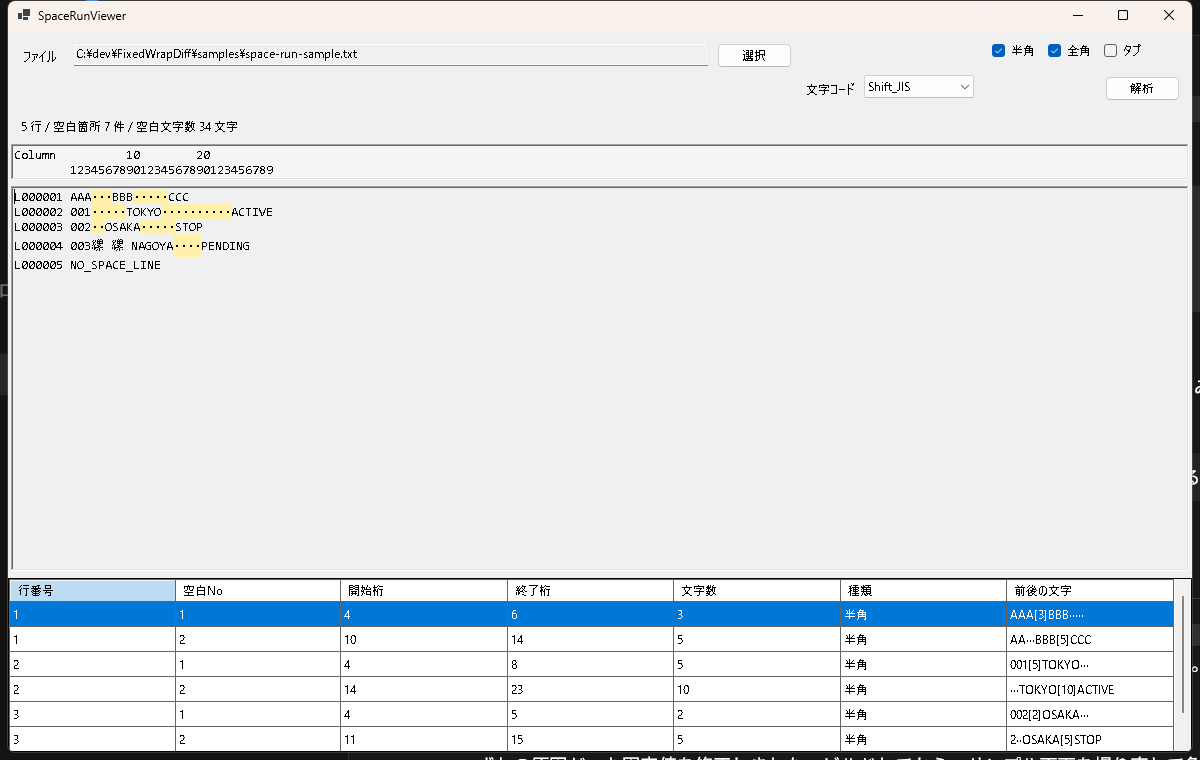
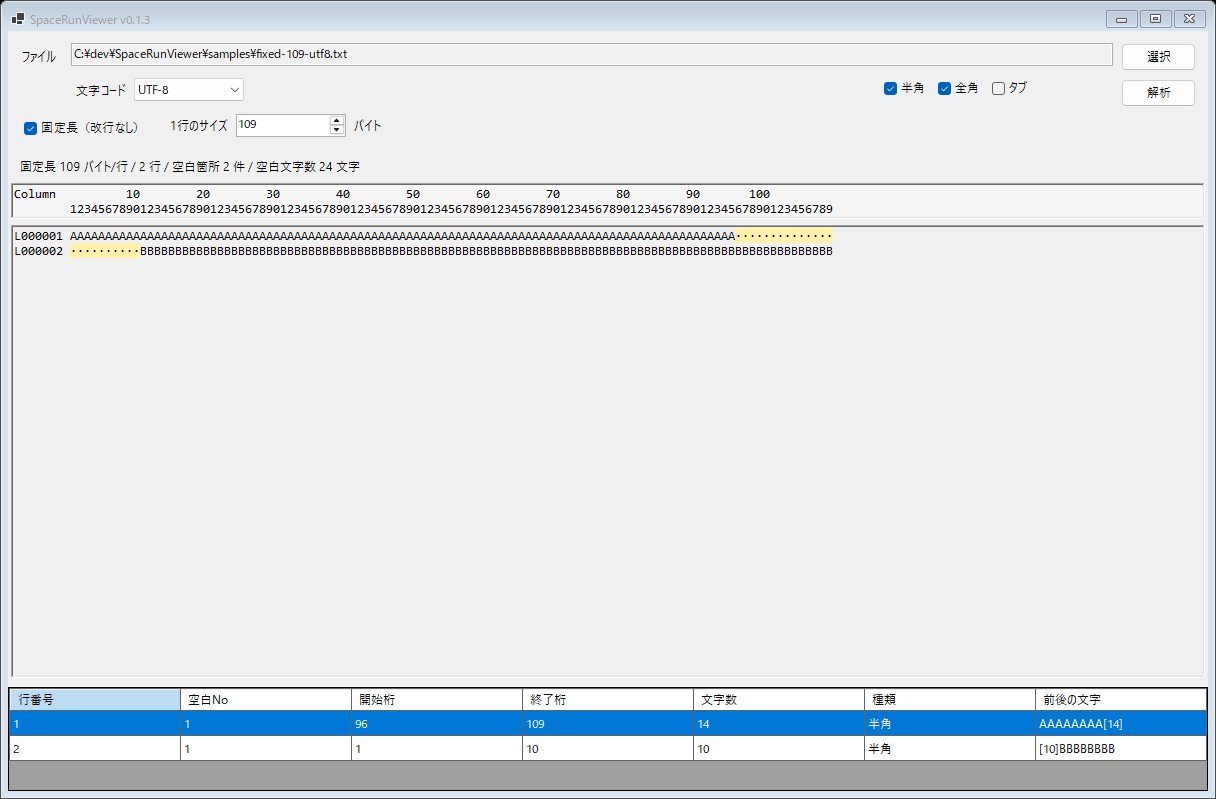
Add byte-sized fixed-length record support

Changed region(s): [[0.0, 0.0, 1.0, 1.0]]

diff --git a/tests/SpaceRunViewer.Tests/Program.cs b/tests/SpaceRunViewer.Tests/Program.cs
@@ -1,0 +1,183 @@
+using System.Reflection;
+using System.Text;
+using SpaceRunViewer;
+
+internal static class Program
+{
+    private static readonly Encoding Utf8 = new UTF8Encoding(false, true);
+    private static string testDirectory = string.Empty;
+
+    [STAThread]
+    private static int Main(string[] args)
+    {
+        Encoding.RegisterProvider(CodePagesEncodingProvider.Instance);
+        if (args.Length == 3 && args[0] == "--preview")
+        {
+            RenderPreview(args[1], args[2]);
+            return 0;
+        }
+        testDirectory = Path.Combine(Path.GetTempPath(), "SpaceRunViewer-tests-" + Guid.NewGuid().ToString("N"));
+        Directory.CreateDirectory(testDirectory);
+        var tests = new (string Name, Action Run)[]
+        {
+            ("通常モードはCRLF・LFと空行を保持", NormalLines),
+            ("109バイト2件を分離し末尾空白を保持", Fixed109),
+            ("空ファイルは0件", EmptyFile),
+            ("末尾の不足データを保持", PartialRecord),
+            ("UTF-8のBOMはレコード長に含めない", Utf8Bom),
+            ("UTF-8の日本語をバイト単位で分割", Utf8Multibyte),
+            ("Shift_JISの日本語をバイト単位で分割", ShiftJisMultibyte),
+            ("複数バイト文字の途中の境界を拒否", InvalidBoundary),
+            ("固定長モードの改行を拒否", FixedNewlines),
+            ("0・負のレコード長を拒否", InvalidSize),
+            ("画面の固定長指定・行分離・空白選択", FormIntegration),
+        };
+        var failures = 0;
+        try
+        {
+            foreach (var test in tests)
+            {
+                try { test.Run(); Console.WriteLine("PASS " + test.Name); }
+                catch (Exception ex) { failures++; Console.Error.WriteLine("FAIL " + test.Name + ": " + ex); }
+            }
+        }
+        finally
+        {
+            var expectedPrefix = Path.Combine(Path.GetFullPath(Path.GetTempPath()), "SpaceRunViewer-tests-");
+            if (!Path.GetFullPath(testDirectory).StartsWith(expectedPrefix, StringComparison.OrdinalIgnoreCase))
+                throw new InvalidOperationException("テスト用ディレクトリの削除対象が範囲外です。");
+            Directory.Delete(testDirectory, true);
+        }
+        Console.WriteLine($"{tests.Length - failures}/{tests.Length} passed");
+        return failures == 0 ? 0 : 1;
+    }
+
+    private static string Write(byte[] bytes)
+    {
+        var path = Path.Combine(testDirectory, Guid.NewGuid().ToString("N") + ".txt");
+        File.WriteAllBytes(path, bytes);
+        return path;
+    }
+
+    private static string Write(string text) => Write(Utf8.GetBytes(text));
+    private static void Equal<T>(T expected, T actual)
+    {
+        if (!EqualityComparer<T>.Default.Equals(expected, actual))
+            throw new InvalidOperationException($"Expected {expected}; actual {actual}");
+    }
+    private static void Lines(string[] expected, TextFileReadResult actual)
+    {
+        if (!expected.SequenceEqual(actual.Lines)) throw new InvalidOperationException("レコード内容が一致しません。");
+    }
+    private static void Throws<T>(Action action) where T : Exception
+    {
+        try { action(); }
+        catch (T) { return; }
+        throw new InvalidOperationException(typeof(T).Name + " was not thrown.");
+    }
+
+    private static void NormalLines() => Lines(["A  B", "", "C "], TextFileReader.Read(Write("A  B\r\n\r\nC \n"), Utf8));
+    private static string[] FixedRecords() => [new string('A', 95) + new string(' ', 14), new string(' ', 10) + new string('B', 99)];
+
+    private static void Fixed109()
+    {
+        var records = FixedRecords();
+        var result = TextFileReader.Read(Write(string.Concat(records)), Utf8, 109);
+        Lines(records, result);
+        Equal(0, result.PartialRecordBytes);
+    }
+
+    private static void EmptyFile() => Lines([], TextFileReader.Read(Write(""), Utf8, 109));
+    private static void PartialRecord()
+    {
+        var result = TextFileReader.Read(Write("AB CD"), Utf8, 3);
+        Lines(["AB ", "CD"], result);
+        Equal(2, result.PartialRecordBytes);
+    }
+
+    private static void Utf8Bom()
+    {
+        var bytes = new byte[] { 0xEF, 0xBB, 0xBF }.Concat(Utf8.GetBytes("A B ")).ToArray();
+        Lines(["A ", "B "], TextFileReader.Read(Write(bytes), Utf8, 2));
+        Lines([], TextFileReader.Read(Write([0xEF, 0xBB, 0xBF]), Utf8, 2));
+    }
+
+    private static void Utf8Multibyte() => Lines(["あ  A", "B  い"], TextFileReader.Read(Write("あ  AB  い"), Utf8, 6));
+    private static void ShiftJisMultibyte()
+    {
+        var encoding = Encoding.GetEncoding("shift_jis");
+        Lines(["あ  ", "B い"], TextFileReader.Read(Write(encoding.GetBytes("あ  B い")), encoding, 4));
+    }
+    private static void InvalidBoundary() => Throws<InvalidDataException>(() => TextFileReader.Read(Write("あ  AB  い"), Utf8, 5));
+    private static void FixedNewlines() => Throws<InvalidDataException>(() => TextFileReader.Read(Write("A\r\nB"), Utf8, 4));
+    private static void InvalidSize()
+    {
+        var path = Write("A");
+        Throws<ArgumentOutOfRangeException>(() => TextFileReader.Read(path, Utf8, 0));
+        Throws<ArgumentOutOfRangeException>(() => TextFileReader.Read(path, Utf8, -1));
+    }
+
+    private static T Field<T>(MainForm form, string name) => (T)typeof(MainForm).GetField(name, BindingFlags.Instance | BindingFlags.NonPublic)!.GetValue(form)!;
+    private static void Analyze(MainForm form) => typeof(MainForm).GetMethod("AnalyzeFile", BindingFlags.Instance | BindingFlags.NonPublic)!.Invoke(form, null);
+
+    private static void FormIntegration()
+    {
+        using var form = new MainForm();
+        form.CreateControl();
+        var mode = Field<CheckBox>(form, "fixedLengthCheckBox");
+        var size = Field<NumericUpDown>(form, "recordByteLengthInput");
+        Equal(false, mode.Checked);
+        Equal(false, size.Enabled);
+        Equal(109m, size.Value);
+        Field<ComboBox>(form, "encodingComboBox").SelectedItem = "UTF-8";
+        Field<TextBox>(form, "filePathTextBox").Text = Write(string.Concat(FixedRecords()));
+        mode.Checked = true;
+        Equal(true, size.Enabled);
+        Analyze(form);
+        var grid = Field<DataGridView>(form, "resultGrid");
+        var body = Field<SyncRichTextBox>(form, "textView");
+        Equal(2, grid.Rows.Count);
+        Equal(1, (int)grid.Rows[0].Cells["LineNumber"].Value!);
+        Equal(96, (int)grid.Rows[0].Cells["StartColumn"].Value!);
+        Equal(14, (int)grid.Rows[0].Cells["Length"].Value!);
+        Equal(2, (int)grid.Rows[1].Cells["LineNumber"].Value!);
+        Equal(1, (int)grid.Rows[1].Cells["StartColumn"].Value!);
+        Equal(10, (int)grid.Rows[1].Cells["Length"].Value!);
+        if (!body.Text.Contains("L000002 ")) throw new InvalidOperationException("2件目の行がありません。");
+        grid.CurrentCell = grid.Rows[1].Cells[0];
+        Equal(1, grid.CurrentRow!.Index);
+        typeof(MainForm).GetMethod("HighlightSelectedRun", BindingFlags.Instance | BindingFlags.NonPublic)!.Invoke(form, null);
+        var run = (SpaceRun)grid.Rows[1].Tag!;
+        typeof(MainForm).GetMethod("SelectRunText", BindingFlags.Instance | BindingFlags.NonPublic)!.Invoke(form, [run]);
+        Equal(new string('·', 10), body.SelectedText);
+        Equal(Color.FromArgb(255, 197, 120).ToArgb(), body.SelectionBackColor.ToArgb());
+        mode.Checked = false;
+        Analyze(form);
+        Equal(1, grid.Rows.Count);
+        Equal(24, (int)grid.Rows[0].Cells["Length"].Value!);
+        mode.Checked = true;
+        size.Value = 3;
+        Field<TextBox>(form, "filePathTextBox").Text = Write("AB CD");
+        Analyze(form);
+        if (!Field<Label>(form, "summaryLabel").Text.Contains("末尾レコード 2 バイト")) throw new InvalidOperationException("不足サイズの表示がありません。");
+    }
+
+    private static void RenderPreview(string input, string output)
+    {
+        Application.EnableVisualStyles();
+        using var form = new MainForm();
+        form.StartPosition = FormStartPosition.Manual;
+        form.Location = new Point(-30000, -30000);
+        form.ShowInTaskbar = false;
+        form.Show();
+        Field<TextBox>(form, "filePathTextBox").Text = input;
+        Field<ComboBox>(form, "encodingComboBox").SelectedItem = "UTF-8";
+        Field<CheckBox>(form, "fixedLengthCheckBox").Checked = true;
+        Analyze(form);
+        Application.DoEvents();
+        using var image = new Bitmap(form.Width, form.Height);
+        form.DrawToBitmap(image, new Rectangle(Point.Empty, image.Size));
+        image.Save(output, System.Drawing.Imaging.ImageFormat.Png);
+        form.Close();
+    }
+}

diff --git a/MainForm.cs b/MainForm.cs
@@ -4,7 +4,7 @@ namespace SpaceRunViewer;
 
 public sealed class MainForm : Form
 {
-    private const string AppVersion = "0.1.2";
+    private const string AppVersion = "0.1.3";
     private const int LinePrefixLength = 8;
     private const int PaneMinimumHeight = 40;
     private const int InitialResultGridHeight = 104;
@@ -14,6 +14,8 @@ public sealed class MainForm : Form
     private readonly CheckBox halfSpaceCheckBox = new();
     private readonly CheckBox fullSpaceCheckBox = new();
     private readonly CheckBox tabCheckBox = new();
+    private readonly CheckBox fixedLengthCheckBox = new();
+    private readonly NumericUpDown recordByteLengthInput = new();
     private readonly Label summaryLabel = new();
     private readonly SyncRichTextBox rulerView = new();
     private readonly SyncRichTextBox textView = new();
@@ -50,7 +52,7 @@ public sealed class MainForm : Form
             AutoSize = true,
             Padding = new Padding(8),
             ColumnCount = 7,
-            RowCount = 2,
+            RowCount = 3,
         };
         topPanel.ColumnStyles.Add(new ColumnStyle(SizeType.AutoSize));
         topPanel.ColumnStyles.Add(new ColumnStyle(SizeType.Percent, 100));
@@ -93,6 +95,36 @@ public sealed class MainForm : Form
         topPanel.Controls.Add(fullSpaceCheckBox, 3, 1);
         topPanel.Controls.Add(tabCheckBox, 4, 1);
         topPanel.Controls.Add(analyzeButton, 6, 1);
+
+        fixedLengthCheckBox.Text = "固定長（改行なし）";
+        fixedLengthCheckBox.AutoSize = true;
+        fixedLengthCheckBox.Margin = new Padding(4, 7, 12, 4);
+        recordByteLengthInput.Minimum = 1;
+        recordByteLengthInput.Maximum = 1_000_000;
+        recordByteLengthInput.Value = 109;
+        recordByteLengthInput.Width = 110;
+        recordByteLengthInput.ThousandsSeparator = true;
+        var recordSizeOptions = new FlowLayoutPanel
+        {
+            AutoSize = true,
+            WrapContents = false,
+            Margin = Padding.Empty,
+            Enabled = false,
+        };
+        recordSizeOptions.Controls.Add(new Label { Text = "1行のサイズ", AutoSize = true, Padding = new Padding(0, 6, 0, 0) });
+        recordSizeOptions.Controls.Add(recordByteLengthInput);
+        recordSizeOptions.Controls.Add(new Label { Text = "バイト", AutoSize = true, Padding = new Padding(0, 6, 0, 0) });
+        fixedLengthCheckBox.CheckedChanged += (_, _) => recordSizeOptions.Enabled = fixedLengthCheckBox.Checked;
+        var recordModePanel = new FlowLayoutPanel
+        {
+            AutoSize = true,
+            WrapContents = false,
+            Margin = new Padding(4, 0, 4, 0),
+        };
+        recordModePanel.Controls.Add(fixedLengthCheckBox);
+        recordModePanel.Controls.Add(recordSizeOptions);
+        topPanel.Controls.Add(recordModePanel, 0, 2);
+        topPanel.SetColumnSpan(recordModePanel, 7);
 
         summaryLabel.Dock = DockStyle.Top;
         summaryLabel.AutoSize = false;
@@ -280,12 +312,16 @@ public sealed class MainForm : Form
         try
         {
             var encoding = GetSelectedEncoding();
-            var lines = File.ReadAllLines(filePathTextBox.Text, encoding);
+            int? recordByteLength = fixedLengthCheckBox.Checked ? (int)recordByteLengthInput.Value : null;
+            var result = TextFileReader.Read(filePathTextBox.Text, encoding, recordByteLength);
+            var lines = result.Lines;
             currentRuns = AnalyzeLines(lines);
             RenderRuler(lines);
             RenderText(lines);
             RenderGrid();
-            summaryLabel.Text = $"{lines.Length:N0} 行 / 空白箇所 {currentRuns.Count:N0} 件 / 空白文字数 {currentRuns.Sum(run => run.Length):N0} 文字";
+            var mode = recordByteLength is { } size ? $"固定長 {size:N0} バイト/行 / " : string.Empty;
+            var partial = result.PartialRecordBytes > 0 ? $" / 末尾レコード {result.PartialRecordBytes:N0} バイト（指定サイズ未満）" : string.Empty;
+            summaryLabel.Text = $"{mode}{lines.Length:N0} 行 / 空白箇所 {currentRuns.Count:N0} 件 / 空白文字数 {currentRuns.Sum(run => run.Length):N0} 文字{partial}";
         }
         catch (Exception ex)
         {

diff --git a/TextFileReader.cs b/TextFileReader.cs
@@ -1,0 +1,59 @@
+using System.Text;
+
+namespace SpaceRunViewer;
+
+public sealed record TextFileReadResult(string[] Lines, int PartialRecordBytes = 0);
+
+public static class TextFileReader
+{
+    public static TextFileReadResult Read(string path, Encoding encoding, int? recordByteLength = null)
+    {
+        ArgumentNullException.ThrowIfNull(encoding);
+        if (recordByteLength is null)
+        {
+            return new TextFileReadResult(File.ReadAllLines(path, encoding));
+        }
+
+        ArgumentOutOfRangeException.ThrowIfNegativeOrZero(recordByteLength.Value);
+        var bytes = File.ReadAllBytes(path);
+        var offset = 0;
+        if (encoding.CodePage == Encoding.UTF8.CodePage
+            && bytes.AsSpan().StartsWith(new byte[] { 0xEF, 0xBB, 0xBF }))
+        {
+            offset = 3;
+        }
+
+        var contentLength = bytes.Length - offset;
+        if (contentLength == 0)
+        {
+            return new TextFileReadResult([]);
+        }
+
+        var strictEncoding = (Encoding)encoding.Clone();
+        strictEncoding.DecoderFallback = DecoderFallback.ExceptionFallback;
+        var recordLength = recordByteLength.Value;
+        var lines = new string[(contentLength - 1) / recordLength + 1];
+        for (var index = 0; offset < bytes.Length; index++)
+        {
+            var count = Math.Min(recordLength, bytes.Length - offset);
+            try
+            {
+                lines[index] = strictEncoding.GetString(bytes, offset, count);
+            }
+            catch (DecoderFallbackException ex)
+            {
+                throw new InvalidDataException(
+                    $"{index + 1:N0}件目のレコードを読み込めません。文字コードと1行のサイズを確認してください。複数バイトの文字の途中で区切られている可能性があります。", ex);
+            }
+
+            if (lines[index].IndexOfAny(['\r', '\n']) >= 0)
+            {
+                throw new InvalidDataException("固定長モードは改行なしのファイル用です。改行のあるファイルは「固定長（改行なし）」をオフにして解析してください。");
+            }
+
+            offset += count;
+        }
+
+        return new TextFileReadResult(lines, contentLength % recordLength);
+    }
+}
